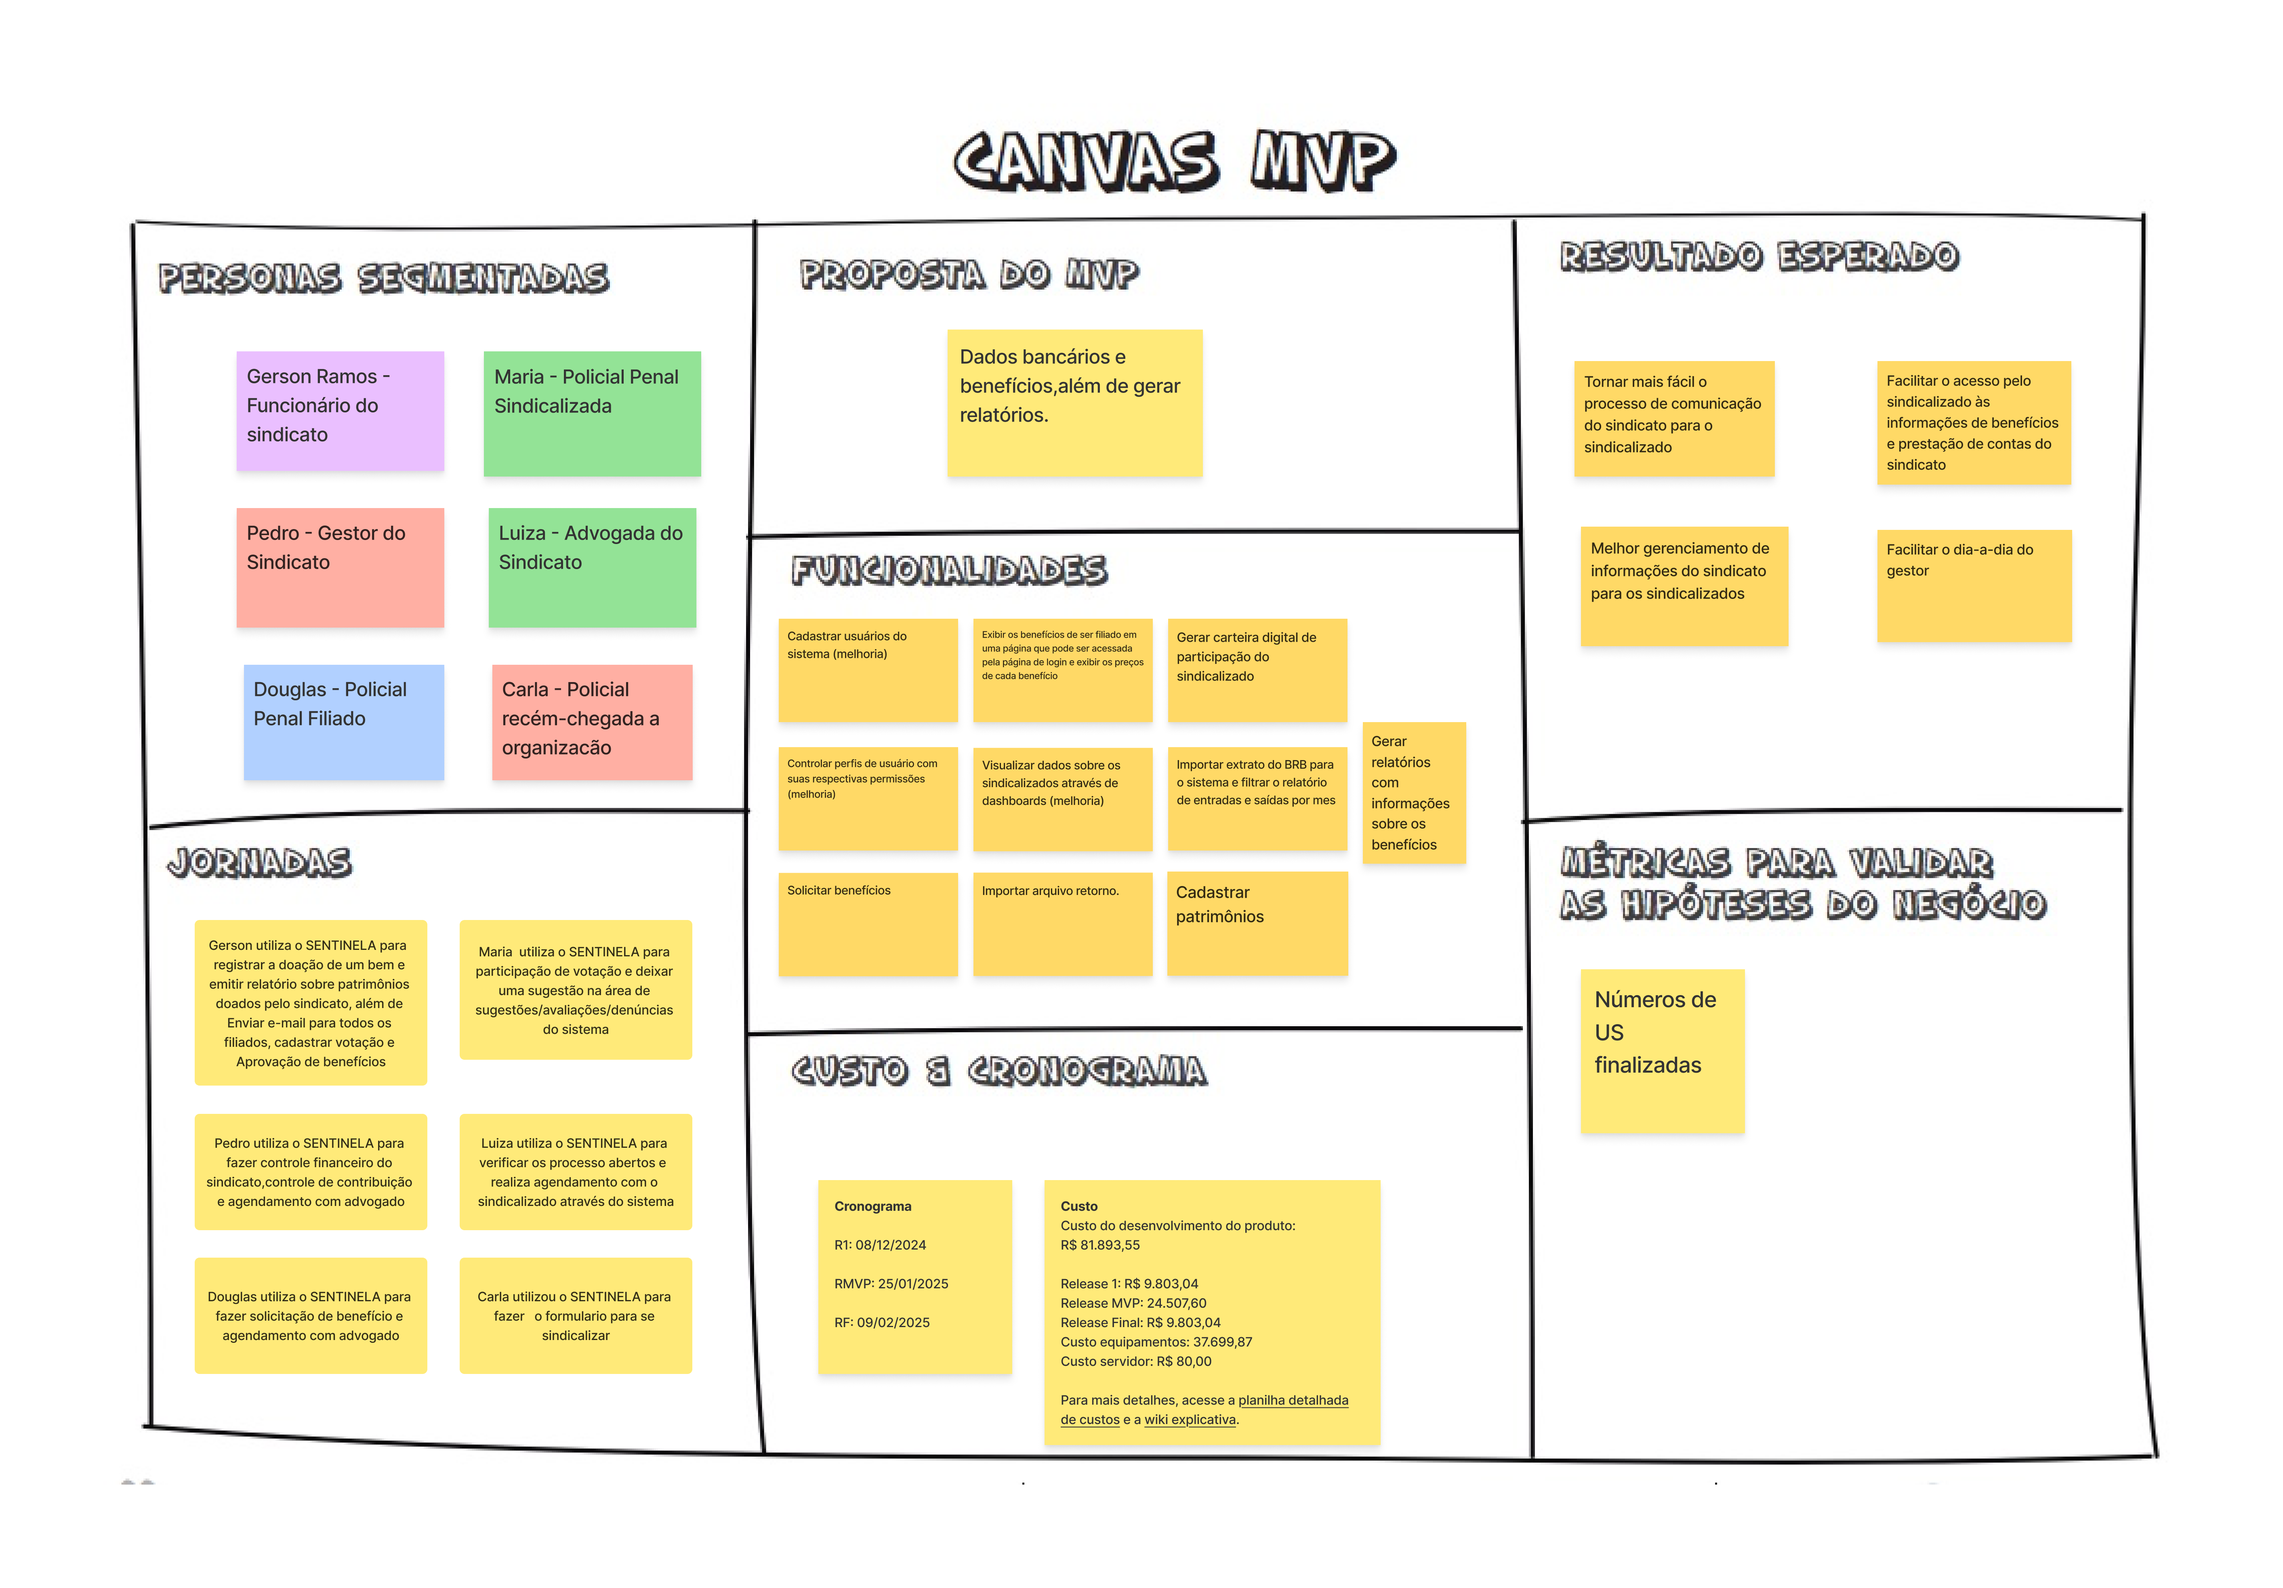
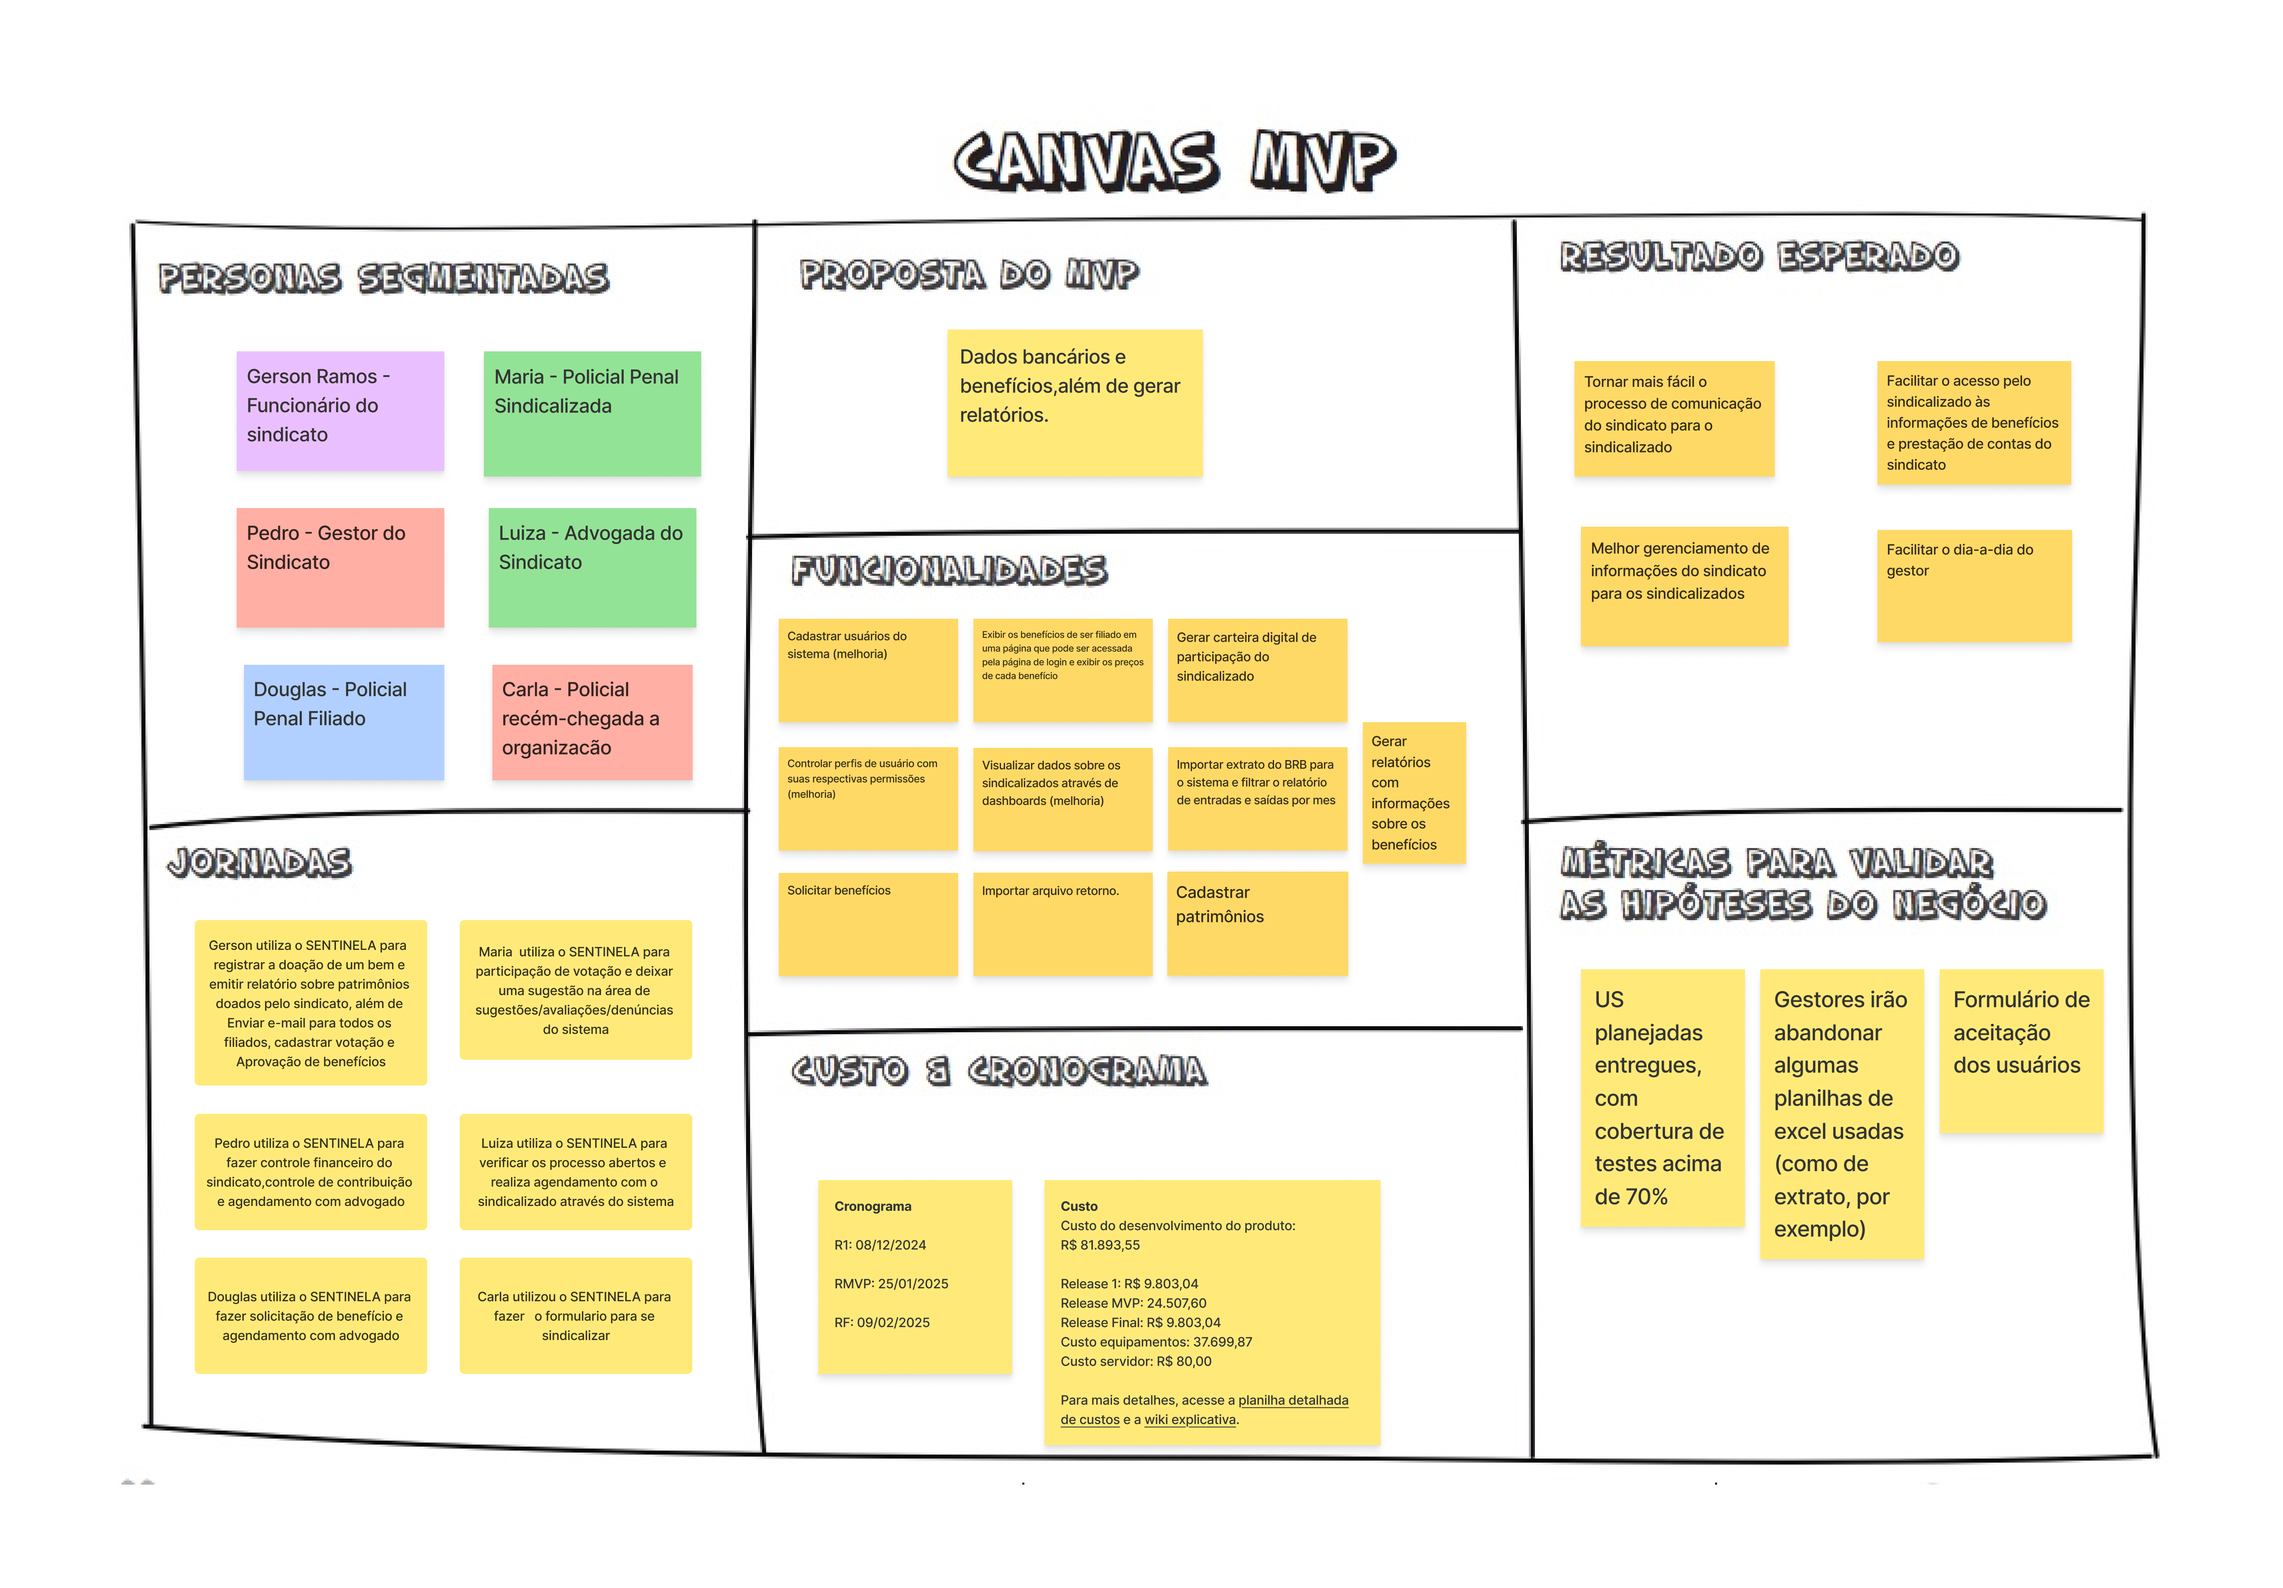
adiciona resultados do projeto

Changed region(s): [[0.6851, 0.5895, 0.9342, 0.8067]]

diff --git a/docs/pages/resultados/contribuicao.md b/docs/pages/resultados/contribuicao.md
@@ -1,0 +1,16 @@
+# Como o produto desenvolvido contribui para a solução do problema identificado?
+
+Essa página tem como objetivo demonstrar como o sistema desenvolvido contribui para a solução do problema identificado no Sindicato dos Policiais Penais do DF, que enfrentava dificuldades na automatização do gerenciamento dos serviços prestados e na comunicação com os sindicalizados. A ausência de um sistema eficiente resulta em processos manuais suscetíveis a erros, tornando a administração mais morosa e dificultando a transparência nas informações sobre benefícios, pagamentos e gestão patrimonial.
+
+Para solucionar esse problema, nesse semestre foram desenvolvidas soluções que permitem o cadastro e gerenciamento de usuários de maneira mais eficiente. A implementação de perfis com permissões específicas garante maior segurança e organização no acesso às funcionalidades do sistema. Além disso, a comunicação com os sindicalizados foi aprimorada com a exibição dos benefícios de ser filiado diretamente na página de login, permitindo que os usuários tenham fácil acesso às informações sobre os serviços oferecidos. Também foram disponibilizados os preços de cada benefício, acompanhados de informações de contato, possibilitando que os sindicalizados entrem em contato rapidamente para solicitar os serviços desejados.
+
+Na gestão financeira do sindicato foi adicionada a possibilidade de importar extratos do Banco BRB, facilitando o controle das receitas e despesas. A atualização da situação financeira dos sindicalizados também foi automatizada por meio da importação de arquivos de retorno, contendo a lista de contribuintes que efetuaram pagamento no período, garantindo que o status de adimplência ou inadimplência seja atualizado automaticamente.
+
+Outro avanço importante foi a criação da carteira de participação dos sindicalizados, e proporcionando uma solução mais prática para comprovação da filiação. Além disso, a implementação de dashboards interativos permitiu uma melhor visualização dos dados dos sindicalizados, oferecendo informações valiosas para a administração do sindicato. A gestão patrimonial também foi aprimorada com a criação de um módulo específico para cadastro, edição, exclusão e leitura de informações sobre os bens do sindicato, permitindo um controle mais eficiente dos ativos da instituição.
+
+
+### **Histórico de Versões**
+
+| **Versão** | **Nome da Versão**      | **Data**      | **Responsável**         | **Descrição/Alterações**                                 |
+|------------|-------------------------|---------------|-------------------------|----------------------------------------------------------|
+|   1.0      | Criação do documento    | 08/12/2024    | Clara Marcelino         | Criação do documento                                     |
